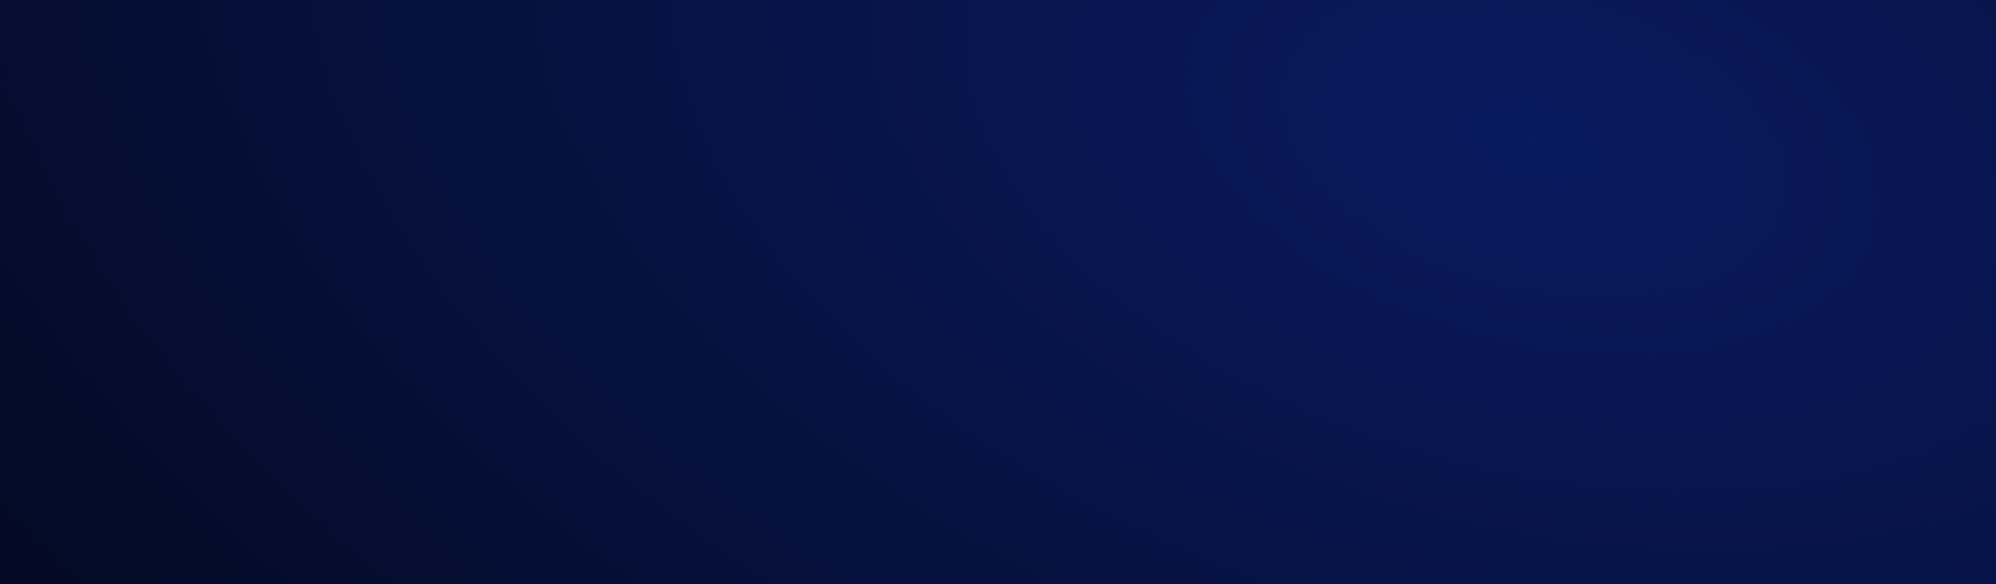
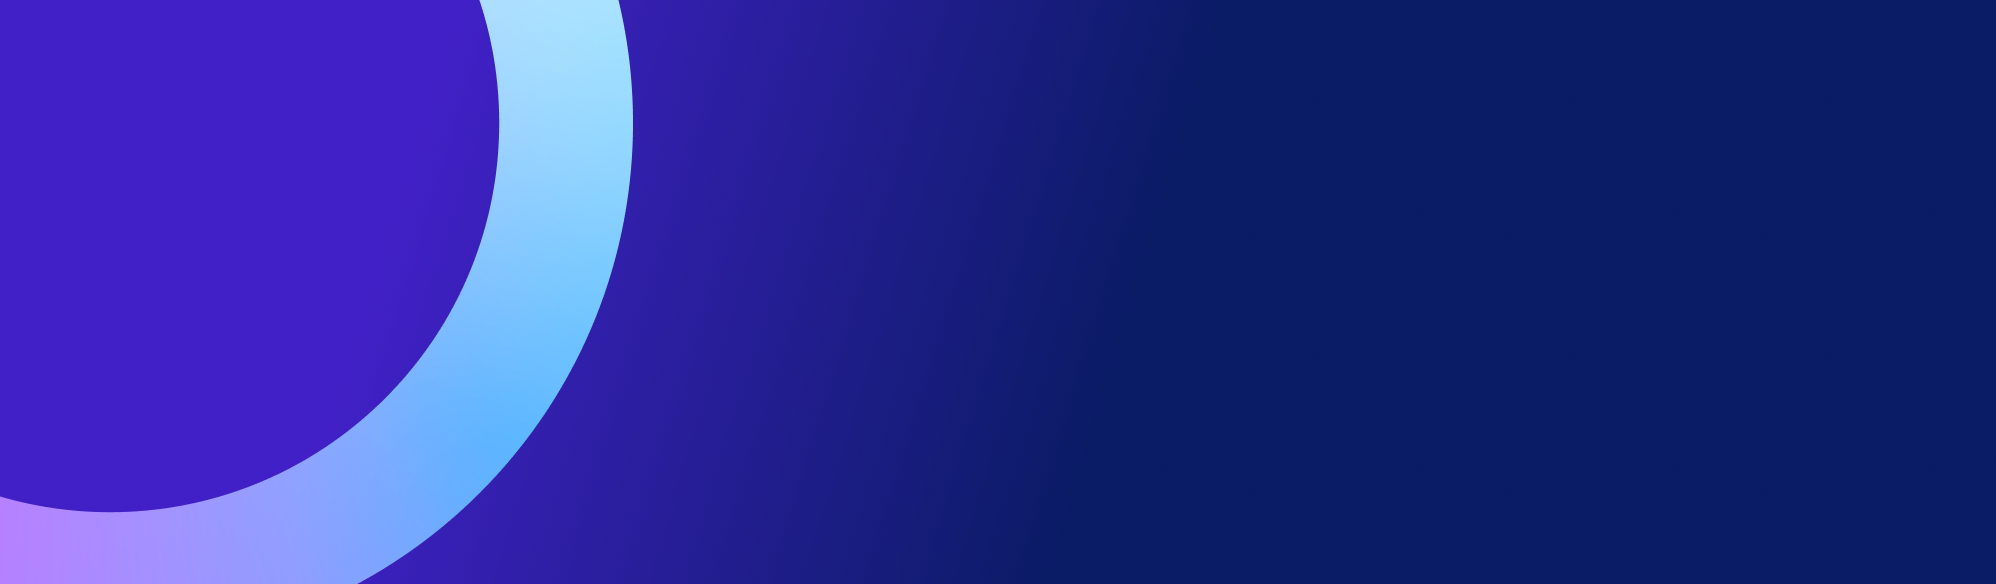
More vibrant project bars

diff --git a/components/MergedProjects.vue b/components/MergedProjects.vue
@@ -5,12 +5,13 @@
         v-for="product in products" 
         :key="product.title" 
         :to="product.slug" 
-        :style="{ backgroundColor: product.color }"
+        :style="{ backgroundColor: product.color, backgroundImage: `url(${product.bg})` }"
       >
-      <section class="image-wrapper">
+      <!-- <section class="image-wrapper">
         <img :src="product.image" :alt="product.title" />
-      </section>
-      <section class="info" :style="{ backgroundColor: product.color }">
+      </section> -->
+      <section :class="['info', product.class]">
+        <div class="tag">{{ product.type }}</div>
         <h3>{{ product.title }}</h3>
       </section>
     </nuxt-link>
@@ -29,41 +30,45 @@ export default {
           title: 'Scatter',
           description: 'Open-source web3 wallet for EOS, Ethereum, and Tron',
           image: '/products/scatter/scatter-thumb.png',
-          bg: '/scatter-bg.jpg',
+          bg: '/homepage/hp-scatter.png',
           status: 'past',
           slug: '/products/scatter',
           color: '#0899FE',
-          class: 'scatter'
+          class: 'scatter',
+          type: 'Product Case Study'
         },  
         {
           title: 'Ultra',
           description: 'Tokenized gaming platform',
           image: '/products/ultra/ultra-prime-thumb.png',
-          bg: '/ultra-bg.jpg',
+          bg: '/homepage/hp-ultra.png',
           status: 'past',
           slug: '/products/ultra',
           color: '#2E2667',
-          class: 'ultra'
+          class: 'ultra',
+          type: 'Product Case Study'
         },  
-        {
-          title: 'Food For Future',
-          description: 'Decentralized data for funding farmers',
-          image: '/products/food-for-future/fff-thumb.png',
-          bg: '/fff-bg.jpg',
-          status: 'past',
-          slug: '/products/food-for-future',
-          color: '#9446BD',
-          class: 'foodforfuture'
-        },
         {
           title: 'Doodledapp',
           description: 'No-code smart contract development and deployment',
           image: '/products/doodledapp/doodledapp-thumb.png',
-          bg: '/doodledapp-bg.jpg',
+          bg: '/homepage/hp-doodledapp.png',
           status: 'past',
           slug: '/products/doodledapp',
           color: '#3E74FF',
-          class: 'doodledapp'
+          class: 'doodledapp',
+          type: 'Product Case Study'
+        },
+        {
+          title: 'Food For Future',
+          description: 'Decentralized data for funding farmers',
+          image: '/products/food-for-future/fff-thumb.png',
+          bg: '/homepage/hp-fff.png',
+          status: 'past',
+          slug: '/products/food-for-future',
+          color: '#9446BD',
+          class: 'foodforfuture',
+          type: 'Product Case Study'
         },
         {
           title: 'Telos Open Block Explorer',
@@ -73,17 +78,19 @@ export default {
           status: 'past',
           slug: '/products/telos-obe',
           color: '#571AFF',
-          class: 'telos'
+          class: 'telos',
+          type: 'Product Case Study'
         },
         {
           title: 'Illustrations',
           description: 'Various illustrations during my journey',
           image: '/products/illustrations/illustrations-thumb.png',
-          bg: '/illustrations-bg.jpg',
+          bg: '/homepage/hp-illustrations.jpg',
           status: 'past',
           slug: '/products/illustrations',
           color: '#0899FE',
-          class: 'illustrations'
+          class: 'illustrations',
+          type: 'Skillset Showcase'
         },          
         // {
         //   title: 'Crisp Tools',
@@ -122,58 +129,46 @@ export default {
 
   .project {
     width: 100vw;
-    height: 80vh;
+    height: 56vh;
     display: flex;
     flex-direction: column;
     justify-content: flex-end;
     text-decoration: none;
     position: relative;
+    background-size: cover;
 
-    &:hover {
-      .image-wrapper {
-        background: rgba(0,0,0,0);
-      }
-    }
-
-    .image-wrapper {
-      position: absolute;
-      top: 0;
-      left: 0;
-      right: 0;
-      bottom: 0;
-      z-index: 1;
-      width: 100%;
-      border-radius: 6px 6px 0 0;
-      transition: all 0.38s ease-in-out;
-      overflow: hidden;
+    .info {
       display: flex;
-      justify-content: flex-end;
-      align-items: flex-end;
-      background: rgba(0,0,0,0.2);
+      flex-direction: column;
+      justify-content: flex-start;
 
-      img {
-        width: 50vw;
-        height: auto;
-        transition: all 0.38s ease-in-out;
-        position: relative;
-        overflow: hidden;
-        mask-image: linear-gradient(to top, rgba(0,0,0,0), rgba(0,0,0,1));
-        transform: translateX(10vw) translateY(10vh) rotate(-20deg);
-        border-radius: $br-lg;
+      &.scatter,
+      &.doodledapp,
+      &.illustrations,
+      &.telos {
+        align-items: flex-end;
 
-        @media screen and (max-width: 768px){
-          width: 100vw;
-          transform: translateX(22vw) translateY(-10vh) rotate(-20deg) scale(1.2);
+        .tag {
+          align-self: flex-end;
         }
+      }
+
+      .tag {
+        color: $white;
+        margin: $spacing-md $spacing-md 0 $spacing-md;
+        padding: $spacing-xs $spacing-sm;
+        background: rgba($white, 0.2);
+        align-self: flex-start;
+        border-radius: 4px;
       }
     }
 
     h3 {
       color: $white;
-      font-size: 10vw;
+      font-size: 6vw;
       border: 0;
       line-height: 100%;
-      margin: $spacing-md;
+      margin: $spacing-sm $spacing-md $spacing-md $spacing-md;
       padding: 0;
       text-wrap: balance;
       font-family: $font-family-secondary;
